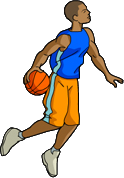
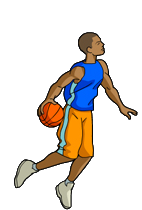
jump

diff --git a/cours3-applicationBasketBall/src/main/java/fr/coursjava/basketball/view/Screen.java b/cours3-applicationBasketBall/src/main/java/fr/coursjava/basketball/view/Screen.java
@@ -2,14 +2,8 @@ package fr.coursjava.basketball.view;
 
 import javax.swing.*;
 import java.awt.*;
-import java.io.BufferedReader;
 import java.io.IOException;
-import java.io.InputStream;
-import java.io.InputStreamReader;
 import java.net.URL;
-import java.util.ArrayList;
-import java.util.List;
-import java.util.Enumeration;
 import java.util.HashMap;
 import java.util.Map;
 
@@ -17,33 +11,40 @@ public class Screen extends JFrame {
 
     private Image[] onGroupImage;
     private Image[] onAirImage;
-    private JPanel panel;
 
     public Screen() throws IOException {
-        super.setSize(300, 300);
+        super.setSize(200, 400);
         super.setDefaultCloseOperation(JFrame.EXIT_ON_CLOSE);
 
-        panel = new JPanel();
-        GridLayout gridlayout = new GridLayout(1,1);
-        panel.setLayout(gridlayout);
-        add(panel);
-
+        setLayout(null);
         loadSprites();
         ImagePanel p = new ImagePanel(onGroupImage[0]);
-        panel.add(p);
+
+        p.setBackground(Color.CYAN);
+        getContentPane().add(p);
+        p.setBounds(0,0,142,400);
 
 
         super.setVisible(true);
 
-
-
         int current = 0;
-        for(int i = 1 ; i < 10 ; i++){
-            Image next = onGroupImage[i%onGroupImage.length];
+        Image[] tmp = onGroupImage;
+        for(int i = 1 ; i < 1000 ; i++){
+            int index = i%tmp.length;
+            if(index == 0){
+                if(onGroupImage.equals(tmp)){
+                    tmp = onAirImage;
+                    p.setAir();
+                }else{
+                    tmp = onGroupImage;
+                    p.setGround();
+                }
+            }
+            Image next = tmp[index];
             p.setImage(next);
             p.repaint();
             try {
-                Thread.sleep(1000);
+                Thread.sleep(100);
             }catch(Exception e){
 
             }

diff --git a/cours3-applicationBasketBall/src/main/java/fr/coursjava/basketball/view/ImagePanel.java b/cours3-applicationBasketBall/src/main/java/fr/coursjava/basketball/view/ImagePanel.java
@@ -18,15 +18,27 @@ public class ImagePanel extends JPanel implements Serializable {
         return image;
     }
 
+    Integer x, y;
+    public void setGround(){
+        x = 0;
+        y = 400 - 210 - 40;
+    }
+
+    public void setAir(){
+        x = 0;
+        y = 400 - 210 - 100;
+    }
+
     @Override
     public void paintComponent(Graphics g) {
+        if(x == null){
+            setGround();
+        }
         super.paintComponent(g); //paint background
         if (image != null) { //there is a picture: draw it
-            int height = this.getSize().height;
-            int width = this.getSize().width;
-            //g.drawImage(image, 0, 0, this); //use image size
-            g.drawImage(image,0,0, width, height, this);
+          g.drawImage(image,x,y, 142, 210, this);
         }
     }
+
 }
 
